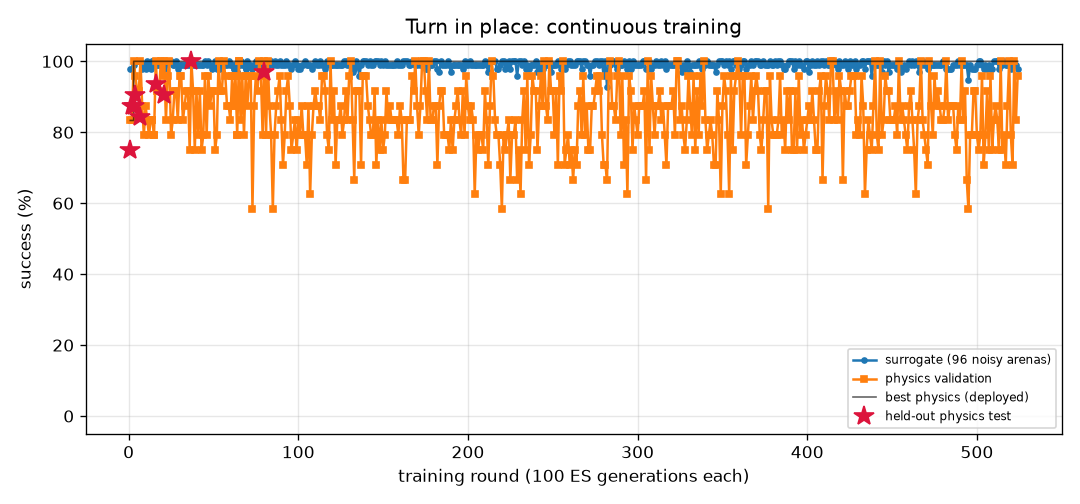
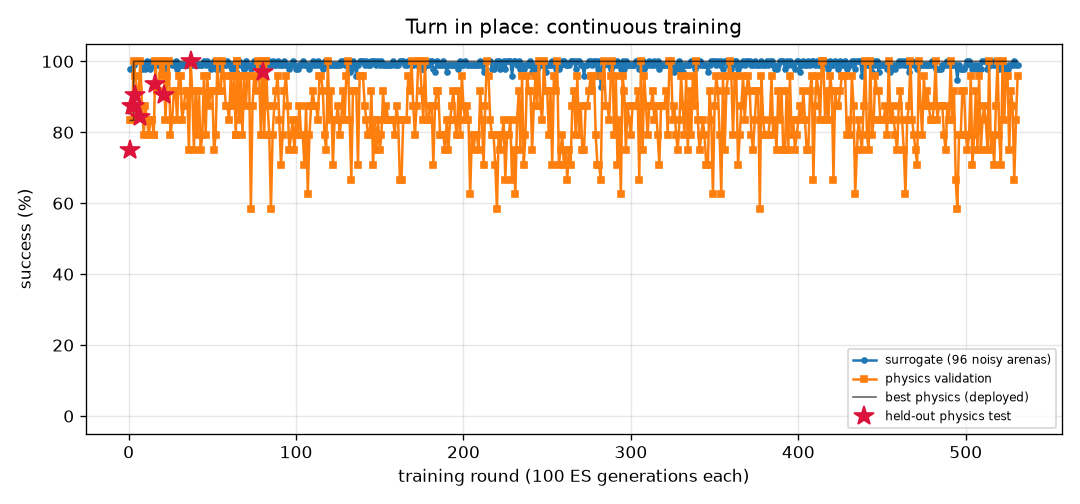
FlyLab: continuous training progress
- walk_forward: optimal, physics val 100% of 24, round 118
- turn: optimal, physics val 100% of 24, round 531
- goto: optimal, physics val 100% of 24, round 112
- odor_seek: optimal, physics val 100% of 24, round 107
- odor_avoid: optimal, physics val 100% of 24, round 527
- light_seek: optimal, physics val 100% of 24, round 296
- light_avoid: optimal, physics val 100% of 24, round 261

diff --git a/projects/09_flylab/training/turn/REPORT.md b/projects/09_flylab/training/turn/REPORT.md
@@ -1,14 +1,14 @@
 # Turn in place (`turn`) — training report
 
-*Auto-generated by `train_brains.py`, last updated 2026-10-17T21:18:13.*
+*Auto-generated by `train_brains.py`, last updated 2026-10-18T10:44:34.*
 
 ![curve](curve.png)
 
 | | |
 |---|---|
-| rounds | 524 |
-| ES generations | 52400 |
-| physics runs | 12822 |
+| rounds | 531 |
+| ES generations | 53100 |
+| physics runs | 12990 |
 | status | **optimal** |
 | best brain | round 80: physics validation **100%** on 24 arenas, surrogate 100% |
 | held-out physics test | **97%** on 32 unseen arenas (95% CI 84%-99%) (errors: [1.6, 3.3, 6.3, 3.7, 1.1, 0.4, 2.4, 2.9, 0.1, 2.6, 0.5, 2.7, 1.5, 3.1, 4.5, 0.2, 0.5, 1.1, 2.0, 4.4, 2.8, 3.2, 0.3, 2.2, 0.5, 3.0, 0.3, 5.4, 0.4, 1.0, 4.7, 10.7]) |
@@ -17,13 +17,6 @@ Physics error per arena: deg from target heading (< 20 = success).
 
 | round | level | gens | sigma | surrogate | physics val | val errors | test | note |
 |---:|---:|---:|---:|---:|---:|---|---:|---|
-| 485 | 3 | 48500 | 0.024 | 98% | 88% | [9.1, 13.5, 12.7, 5.4, 4.2, 0.5, 1.7, 7.5, 1.3, 3.0, 1.1, 5.2, 4.2, 5.3, 1.0, 4.5, 6.0, 2.2, 3.9, 3.3, 8.5, 2.1, 0.9, 12.5] |  |  |
-| 486 | 3 | 48600 | 0.025 | 99% | 88% | [3.6, 7.8, 6.8, 4.4, 2.6, 5.4, 1.5, 6.6, 3.9, 0.6, 4.1, 0.2, 3.6, 2.0, 2.4, 4.8, 0.8, 1.3, 0.9, 1.6, 5.5, 0.5, 6.2, 0.9] |  |  |
-| 487 | 3 | 48700 | 0.025 | 99% | 79% | [7.5, 5.2, 1.7, 1.4, 2.7, 0.1, 5.3, 2.8, 3.2, 1.5, 4.0, 1.2, 1.5, 0.9, 5.0, 1.2, 1.6, 0.2, 0.3, 1.5, 9.3, 0.9, 3.6, 3.6] |  |  |
-| 488 | 3 | 48800 | 0.025 | 99% | 75% | [8.5, 3.3, 3.0, 3.6, 4.2, 5.3, 5.3, 1.5, 4.7, 0.0, 6.2, 2.8, 1.0, 0.6, 5.4, 2.2, 1.5, 1.0, 2.7, 0.6, 8.1, 1.0, 3.6, 2.7] |  | restart from best |
-| 489 | 3 | 48900 | 0.024 | 100% | 88% | [1.7, 7.4, 6.5, 1.0, 1.6, 2.7, 5.5, 0.4, 5.2, 0.8, 3.1, 1.1, 0.6, 3.5, 4.4, 0.4, 1.0, 1.3, 0.2, 2.6, 6.0, 0.2, 6.3, 4.7] |  |  |
-| 490 | 3 | 49000 | 0.024 | 99% | 83% | [1.6, 0.9, 4.6, 0.8, 9.3, 1.2, 6.0, 10.1, 6.7, 1.2, 6.0, 0.4, 0.9, 1.5, 5.0, 3.2, 0.4, 2.3, 3.0, 3.5, 4.3, 1.9, 8.6, 7.1] |  |  |
-| 491 | 3 | 49100 | 0.025 | 99% | 100% | [10.1, 9.2, 8.0, 6.3, 6.0, 1.8, 0.6, 5.1, 0.4, 4.7, 0.2, 3.1, 5.4, 6.4, 1.0, 5.3, 3.1, 4.9, 5.4, 5.6, 8.3, 3.2, 1.4, 7.0] |  |  |
 | 492 | 3 | 49200 | 0.025 | 99% | 83% | [2.0, 10.2, 2.6, 0.8, 5.4, 0.8, 2.4, 5.5, 3.2, 1.5, 1.6, 2.5, 2.2, 4.0, 1.7, 0.3, 2.8, 0.3, 0.2, 0.4, 5.4, 2.7, 3.3, 2.9] |  | restart from best |
 | 493 | 3 | 49300 | 0.024 | 99% | 92% | [4.7, 4.6, 5.5, 2.1, 2.2, 9.8, 5.7, 4.2, 3.1, 0.9, 4.1, 0.3, 1.0, 5.0, 4.1, 2.4, 0.2, 0.2, 1.3, 4.9, 3.7, 0.0, 2.6, 2.8] |  |  |
 | 494 | 3 | 49400 | 0.025 | 99% | 67% | [7.4, 3.9, 0.5, 1.4, 1.8, 3.6, 6.1, 5.1, 6.4, 0.6, 4.2, 0.2, 1.0, 3.1, 3.2, 0.2, 0.3, 1.5, 0.2, 7.2, 2.2, 1.0, 5.4, 4.3] |  |  |
@@ -57,3 +50,10 @@ Physics error per arena: deg from target heading (< 20 = success).
 | 522 | 3 | 52200 | 0.025 | 99% | 100% | [6.1, 8.1, 1.0, 0.9, 4.5, 0.7, 2.5, 2.1, 3.5, 0.1, 2.3, 0.4, 3.0, 2.2, 3.2, 1.1, 0.1, 0.8, 0.6, 1.8, 3.7, 0.5, 5.6, 2.6] |  |  |
 | 523 | 3 | 52300 | 0.025 | 99% | 83% | [3.4, 9.0, 2.2, 3.1, 4.8, 1.3, 5.2, 1.5, 3.4, 1.5, 4.4, 0.7, 1.8, 3.6, 4.3, 1.6, 0.8, 1.4, 1.8, 1.0, 5.0, 0.4, 3.0, 3.8] |  |  |
 | 524 | 3 | 52400 | 0.025 | 98% | 96% | [10.0, 10.4, 3.4, 2.5, 4.0, 0.5, 2.4, 4.6, 2.2, 2.8, 0.7, 3.4, 0.1, 6.2, 1.1, 2.2, 3.6, 2.6, 1.8, 3.6, 8.6, 0.9, 1.8, 3.8] |  | restart from best |
+| 525 | 3 | 52500 | 0.024 | 98% | 96% | [7.3, 7.2, 0.2, 3.3, 5.0, 1.9, 2.3, 3.7, 3.2, 14.8, 4.3, 1.4, 1.6, 2.3, 4.0, 5.5, 1.6, 0.3, 2.3, 0.5, 5.7, 1.6, 5.0, 2.3] |  |  |
+| 526 | 3 | 52600 | 0.025 | 99% | 75% | [3.4, 5.6, 0.5, 2.5, 3.1, 1.9, 3.1, 8.0, 6.6, 0.1, 3.8, 0.0, 1.3, 0.7, 4.9, 1.3, 0.1, 1.0, 0.0, 6.2, 3.8, 1.1, 5.3, 5.9] |  |  |
+| 527 | 3 | 52700 | 0.025 | 99% | 92% | [6.0, 9.0, 6.9, 4.1, 2.2, 1.9, 3.5, 0.6, 4.0, 0.4, 3.4, 1.7, 2.0, 3.5, 2.1, 0.0, 1.8, 1.1, 2.2, 0.3, 6.2, 0.2, 3.4, 2.6] |  |  |
+| 528 | 3 | 52800 | 0.025 | 99% | 88% | [2.8, 4.1, 4.3, 0.5, 5.6, 2.4, 6.1, 5.8, 6.1, 1.4, 3.9, 0.6, 1.2, 1.1, 4.1, 1.0, 2.5, 0.3, 0.4, 0.2, 3.4, 2.2, 6.7, 3.9] |  | restart from best |
+| 529 | 3 | 52900 | 0.024 | 100% | 67% | [7.0, 9.4, 0.4, 0.3, 2.7, 5.3, 3.0, 5.3, 3.2, 0.7, 2.5, 3.7, 2.1, 1.3, 2.1, 2.7, 3.3, 0.7, 2.6, 3.2, 5.7, 1.0, 2.8, 6.1] |  |  |
+| 530 | 3 | 53000 | 0.024 | 99% | 83% | [3.6, 6.3, 2.0, 0.1, 6.2, 1.1, 5.6, 2.3, 5.4, 15.2, 3.1, 1.5, 0.2, 3.3, 3.4, 1.6, 0.0, 0.8, 2.5, 0.6, 3.3, 1.2, 6.5, 5.7] |  |  |
+| 531 | 3 | 53100 | 0.025 | 99% | 96% | [4.9, 7.1, 0.0, 3.6, 0.4, 1.3, 4.6, 2.3, 6.0, 1.0, 2.1, 0.5, 2.9, 3.5, 2.0, 1.7, 0.4, 0.5, 1.8, 0.6, 4.7, 0.2, 3.8, 2.6] |  |  |

diff --git a/projects/09_flylab/training/odor_avoid/REPORT.md b/projects/09_flylab/training/odor_avoid/REPORT.md
@@ -1,14 +1,14 @@
 # Escape a bad smell (`odor_avoid`) — training report
 
-*Auto-generated by `train_brains.py`, last updated 2026-10-17T21:19:23.*
+*Auto-generated by `train_brains.py`, last updated 2026-10-17T21:40:53.*
 
 ![curve](curve.png)
 
 | | |
 |---|---|
-| rounds | 524 |
-| ES generations | 52400 |
-| physics runs | 9882 |
+| rounds | 527 |
+| ES generations | 52700 |
+| physics runs | 9954 |
 | status | **optimal** |
 | best brain | round 373: physics validation **100%** on 24 arenas, surrogate 97% |
 | held-out physics test | **97%** on 32 unseen arenas (95% CI 84%-99%) (errors: [62.0, 57.4, 62.6, 61.9, 59.0, 61.6, 56.5, 60.7, 31.7, 60.9, 63.1, 57.1, 61.1, 62.1, 61.5, 60.2, 62.2, 55.2, 62.1, 54.2, 61.3, 62.0, 58.0, 61.9, 59.8, 56.5, 56.3, 56.4, 56.3, 57.7, 61.9, 32.4]) |
@@ -17,9 +17,6 @@ Physics error per arena: mm gained away from source (> 6 without first approachi
 
 | round | level | gens | sigma | surrogate | physics val | val errors | test | note |
 |---:|---:|---:|---:|---:|---:|---|---:|---|
-| 485 | 3 | 48500 | 0.027 | 94% | 96% | [61.9, 60.6, 56.1, 60.9, 62.2, 60.6, 62.1, 51.5, 62.0, 59.3, 61.6, 62.3, 54.8, 56.4, 48.2, 62.5, 62.2, 60.2, 55.4, 59.5, 62.2, 61.4, 59.7, 51.9] |  | restart from best |
-| 486 | 3 | 48600 | 0.026 | 97% | 96% | [61.2, 59.7, 55.5, 60.2, 61.3, 61.3, 61.5, 13.6, 61.9, 32.2, 58.5, 62.0, 51.6, 55.1, 45.7, 60.7, 61.8, 61.0, 55.0, 57.1, 61.4, 50.0, 58.8, 35.0] |  |  |
-| 487 | 3 | 48700 | 0.026 | 94% | 96% | [62.6, 57.0, 58.2, 57.9, 61.7, 61.1, 60.8, 61.4, 60.5, 61.9, 61.5, 60.0, 54.4, 58.1, 49.0, 61.8, 61.2, 61.1, 55.0, 56.3, 60.3, 61.4, 58.0, 60.3] |  |  |
 | 488 | 3 | 48800 | 0.028 | 96% | 96% | [62.4, 56.9, 56.3, 57.2, 61.8, 61.9, 61.5, 62.6, 61.9, 62.1, 57.7, 61.6, 48.9, 51.4, 41.2, 61.9, 61.8, 61.6, 51.1, 57.6, 61.6, 62.3, 59.7, 62.6] |  |  |
 | 489 | 3 | 48900 | 0.026 | 97% | 96% | [60.6, 57.6, 54.6, 58.0, 58.7, 59.2, 58.4, 51.6, 59.2, 57.8, 59.4, 59.7, 51.4, 54.6, 40.2, 58.6, 59.4, 58.6, 53.9, 55.3, 59.7, 57.7, 57.6, 57.2] |  | restart from best |
 | 490 | 3 | 49000 | 0.026 | 97% | 96% | [62.6, 60.5, 56.2, 61.0, 61.6, 61.0, 61.7, 25.3, 59.8, 58.3, 62.1, 62.1, 54.5, 57.3, 41.9, 62.2, 62.0, 60.3, 55.4, 55.6, 61.4, 60.2, 58.3, 59.7] |  |  |
@@ -57,3 +54,6 @@ Physics error per arena: mm gained away from source (> 6 without first approachi
 | 522 | 3 | 52200 | 0.026 | 93% | 100% | [62.2, 57.3, 55.8, 57.1, 62.1, 50.5, 61.3, 19.9, 60.0, 53.3, 61.3, 62.1, 54.7, 57.5, 42.9, 61.8, 61.9, 61.0, 55.0, 55.6, 61.7, 24.0, 57.1, 23.5] |  |  |
 | 523 | 3 | 52300 | 0.028 | 94% | 100% | [62.6, 61.0, 55.5, 61.0, 43.7, 58.4, 62.1, 61.8, 62.0, 29.9, 30.9, 61.8, 51.6, 55.9, 31.9, 61.4, 62.0, 58.4, 51.7, 60.3, 62.0, 61.3, 60.0, 62.5] |  |  |
 | 524 | 3 | 52400 | 0.028 | 96% | 92% | [63.0, 56.5, 55.7, 61.4, 59.9, 48.2, 61.3, 6.6, 61.3, 19.1, 3.6, 61.7, 48.1, 54.8, 1.4, 55.9, 62.1, 57.6, 51.5, 56.9, 62.2, 35.0, 61.5, 60.5] |  |  |
+| 525 | 3 | 52500 | 0.026 | 97% | 100% | [62.6, 56.9, 56.2, 57.4, 61.4, 62.4, 61.1, 15.0, 60.8, 54.0, 60.4, 62.4, 54.5, 56.6, 40.6, 61.1, 62.3, 62.1, 55.2, 57.4, 62.2, 41.0, 58.4, 53.9] |  | restart from best |
+| 526 | 3 | 52600 | 0.026 | 97% | 100% | [61.7, 59.3, 56.5, 59.8, 61.4, 62.2, 62.2, 44.6, 61.7, 50.2, 35.4, 61.6, 49.8, 56.0, 16.9, 59.8, 61.7, 60.9, 54.6, 56.7, 62.0, 53.7, 59.4, 47.4] |  |  |
+| 527 | 3 | 52700 | 0.026 | 96% | 96% | [62.5, 57.4, 56.5, 57.5, 61.8, 60.7, 60.9, 43.8, 61.1, 60.0, 61.0, 61.9, 51.6, 54.0, 42.3, 61.8, 62.1, 61.2, 55.0, 56.8, 62.4, 61.4, 57.3, 43.6] |  |  |

diff --git a/projects/09_flylab/training/TRAINING.md b/projects/09_flylab/training/TRAINING.md
@@ -1,15 +1,15 @@
 # FlyLab brains — continuous training log
 
-*Auto-generated by `train_brains.py`, last updated 2026-10-17T21:19:23.*
+*Auto-generated by `train_brains.py`, last updated 2026-10-18T10:44:34.*
 
 Every skill has its own brain and its own training process: surrogate ES rounds, physics validation in MuJoCo, keep-the-best selection, and a held-out physics test that is never used for selection. See each skill's report for its full round-by-round history. Mastery is progressive: passing a level (100% physics validation, >=95% surrogate) doubles the validation and test arena sets; a brain is **optimal** once it holds up at level 3 (>=95% of 24 validation arenas) AND scores >=90% on the 32 held-out test arenas. Test columns show 95% Wilson confidence intervals.
 
 | skill | rounds | ES generations | physics runs | surrogate | physics val | **physics test** | status |
 |---|---:|---:|---:|---:|---:|---:|---|
 | [Walk forward](walk_forward/REPORT.md) | 118 | 11800 | 2846 | 100% | 100% of 24 | 100% of 32 (CI 89-100%) | **optimal** |
-| [Turn in place](turn/REPORT.md) | 524 | 52400 | 12822 | 100% | 100% of 24 | 97% of 32 (CI 84-99%) | **optimal** |
+| [Turn in place](turn/REPORT.md) | 531 | 53100 | 12990 | 100% | 100% of 24 | 97% of 32 (CI 84-99%) | **optimal** |
 | [Go to a location](goto/REPORT.md) | 112 | 11200 | 2574 | 100% | 100% of 24 | 100% of 32 (CI 89-100%) | **optimal** |
 | [Find food by smell](odor_seek/REPORT.md) | 107 | 10700 | 1934 | 100% | 100% of 24 | 100% of 32 (CI 89-100%) | **optimal** |
-| [Escape a bad smell](odor_avoid/REPORT.md) | 524 | 52400 | 9882 | 97% | 100% of 24 | 97% of 32 (CI 84-99%) | **optimal** |
+| [Escape a bad smell](odor_avoid/REPORT.md) | 527 | 52700 | 9954 | 97% | 100% of 24 | 97% of 32 (CI 84-99%) | **optimal** |
 | [Walk toward light](light_seek/REPORT.md) | 296 | 29600 | 3952 | 100% | 100% of 24 | 100% of 32 (CI 89-100%) | **optimal** |
 | [Hide from light](light_avoid/REPORT.md) | 261 | 26100 | 6536 | 100% | 100% of 24 | 100% of 32 (CI 89-100%) | **optimal** |
